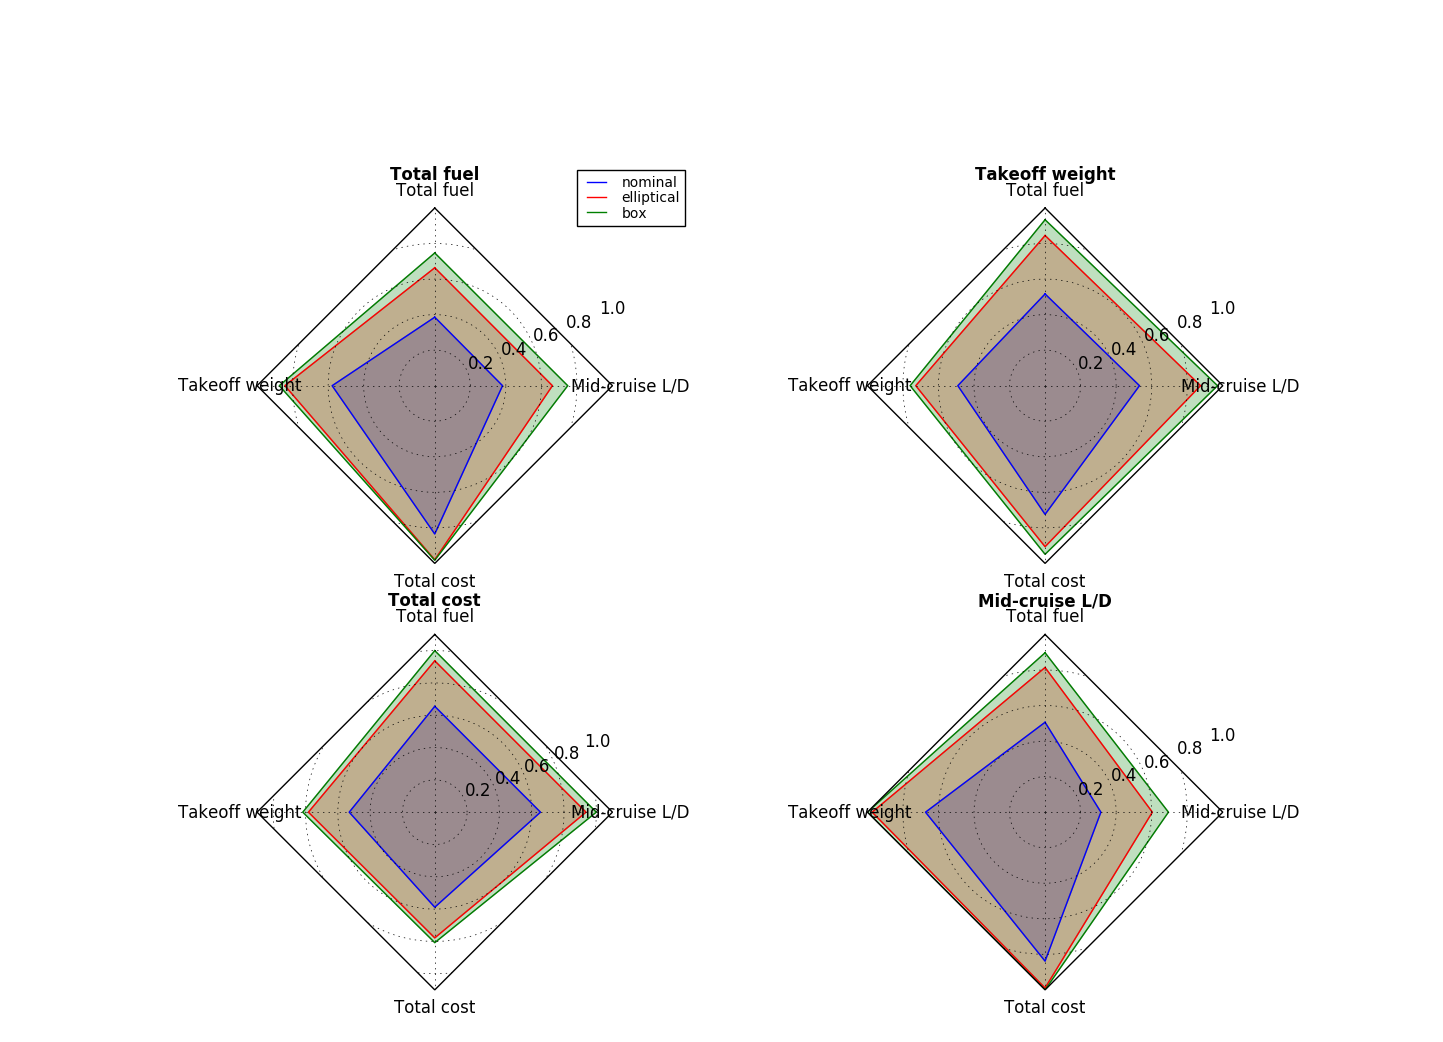
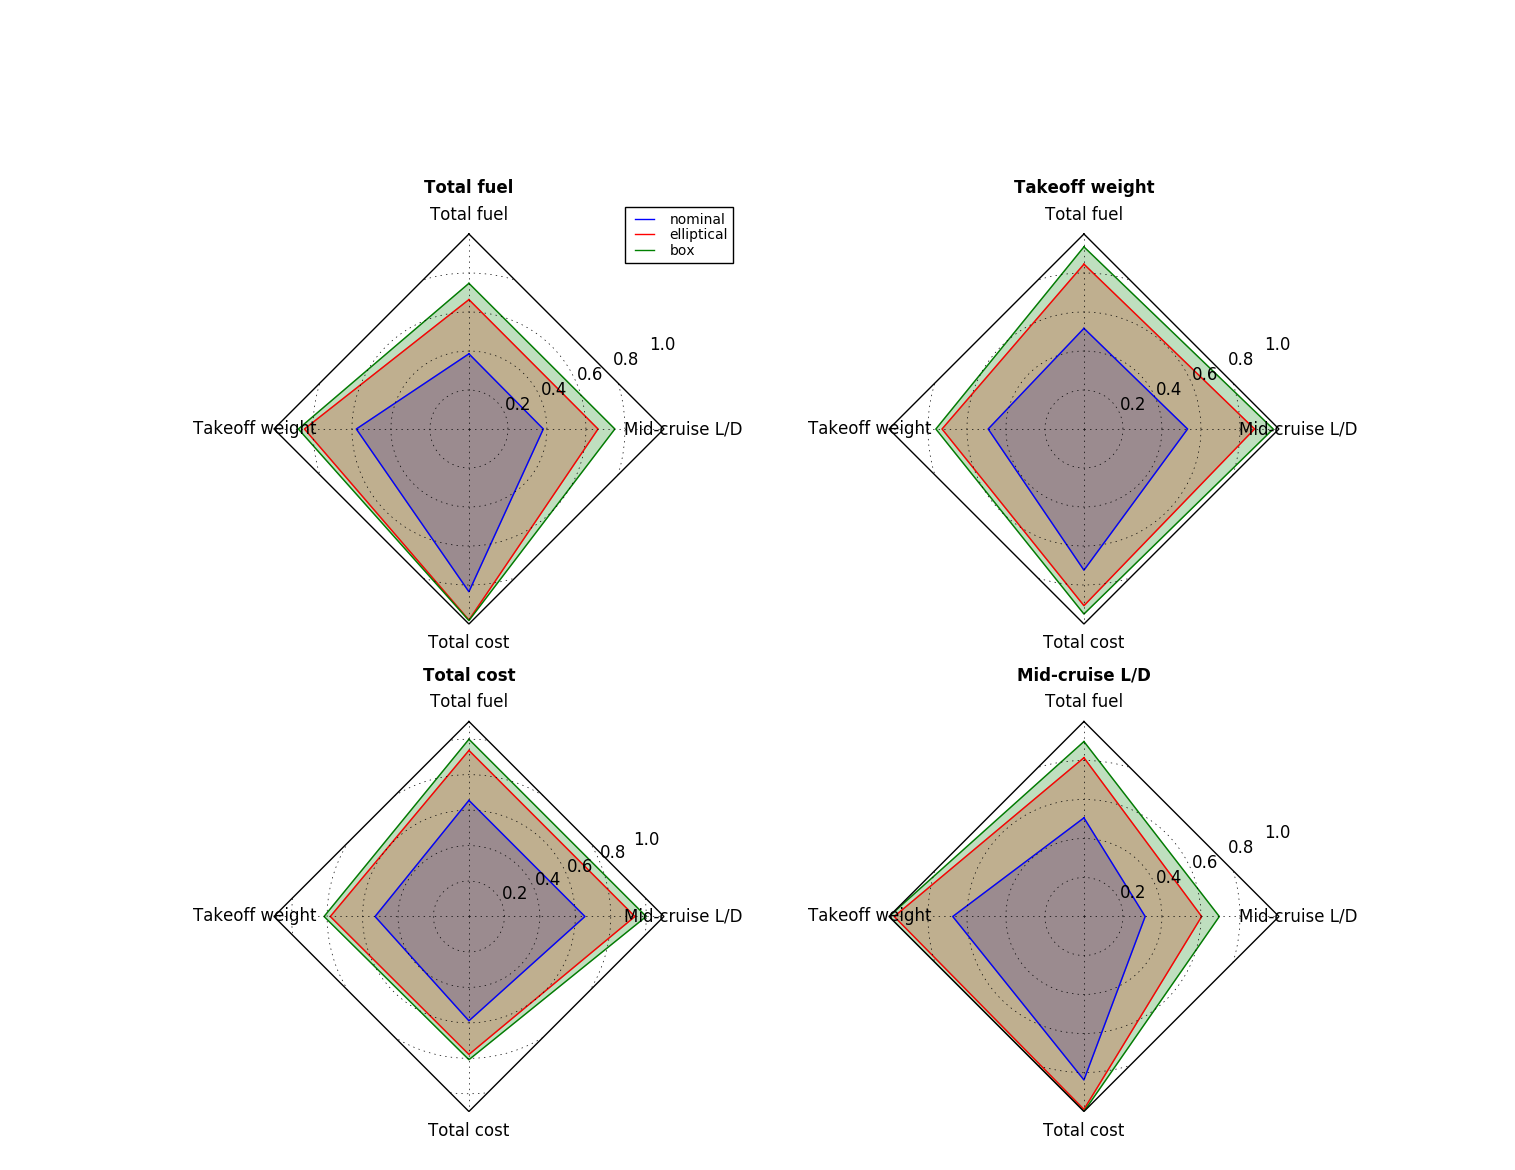
Edits to radar plots. They work.

Changed region(s): [[0.5301, 0.1536, 0.9044, 0.9827], [0.1247, 0.1536, 0.499, 0.9827], [0.4054, 0.1536, 0.499, 0.2457]]

diff --git a/code/SimPleAC_radar.py b/code/SimPleAC_radar.py
@@ -64,13 +64,12 @@ def gen_SimPleAC_radar(marray, objectives, baseobj):
 
         fig, axes = plt.subplots(figsize=(N,N), nrows=int(ceil(float(N)/2.)), ncols=2,
                                  subplot_kw=dict(projection='radar'))
-        fig.subplots_adjust(wspace=0.2, hspace=0.20, top=0.80, bottom=0.05)
+        fig.subplots_adjust(wspace=0.10, hspace=0.25, top=0.80, bottom=0.05)
 
         colors = ['b', 'r', 'g', 'm', 'y', 'c', 'o']
 
         for ax, (title, case_data) in zip(axes.flatten(), data):
-            #ax.set_rgrids([0.2, 0.4, 0.6, 0.8])
-            ax.set_title(title, weight='bold', size='medium', position=(0.5, 1.075),
+            ax.set_title(title, weight='bold', size='medium', position=(0.5, 1.1),
                          horizontalalignment='center', verticalalignment='center')
             for d, color in zip(case_data, colors):
                 print d/maxesindata
@@ -81,7 +80,7 @@ def gen_SimPleAC_radar(marray, objectives, baseobj):
         # add legend relative to top-left plot
         ax = axes[0, 0]
         labels = methods
-        legend = ax.legend(labels, loc=(0.9, .95),
+        legend = ax.legend(labels, loc=(0.9, .925),
                            labelspacing=0.1, fontsize='small')
         plt.show()
         plt.savefig('savefigs/radar.png')
